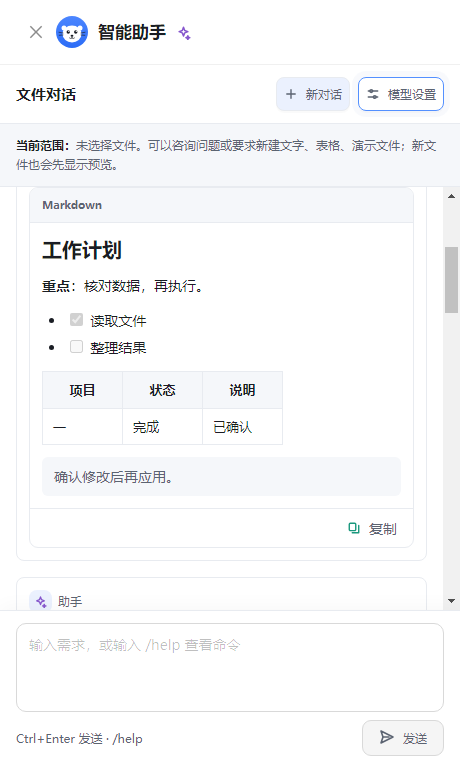
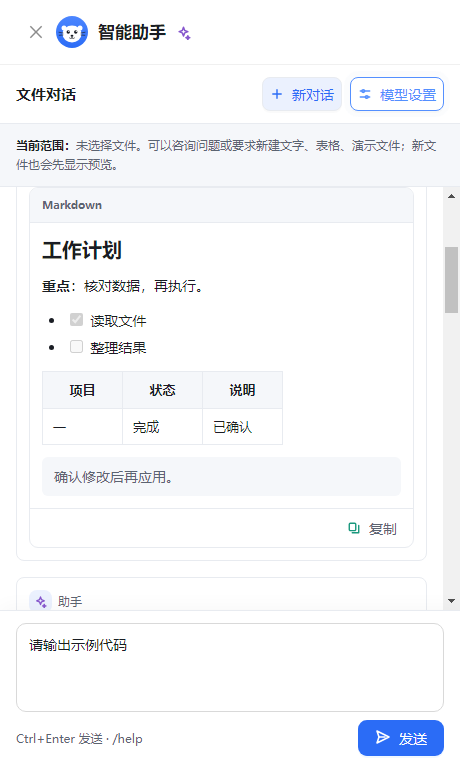
Fix assistant button contrast and verify final presentation

diff --git a/renderer/src/assistant/assistant.css b/renderer/src/assistant/assistant.css
@@ -24,7 +24,7 @@
 .assistant-drawer__work { flex: 1 1 auto; min-height: 0; overflow-y: auto; display: flex; flex-direction: column; }
 .assistant-drawer__header { display: flex; align-items: center; justify-content: space-between; gap: var(--space-3); padding: var(--space-3) var(--space-4); border-bottom: 1px solid var(--border); }
 .assistant-drawer__header strong { font-size: 15px; font-weight: 600; }
-.assistant-drawer__header span { color: var(--text-2); font-size: 12px; }
+.assistant-drawer__header > span { color: var(--text-2); font-size: 12px; }
 .assistant-drawer__header-actions { display: flex; align-items: center; gap: var(--space-2); flex-wrap: wrap; }
 .assistant-context { padding: var(--space-2) var(--space-3); border: 1px solid var(--border); border-radius: var(--radius-control); font-size: 12px; line-height: 1.55; color: var(--text-2); background: var(--bg-app); }
 .assistant-context summary { cursor: pointer; overflow-wrap: anywhere; }
@@ -90,7 +90,7 @@
 .assistant-drawer__composer { display: grid; gap: var(--space-2); padding: var(--space-3) var(--space-4); border-top: 1px solid var(--border); }
 .assistant-drawer__composer .ant-input { resize: none; }
 .assistant-drawer__composer-actions { display: flex; align-items: center; justify-content: space-between; gap: var(--space-2); }
-.assistant-drawer__composer-actions span { color: var(--text-2); font-size: 12px; }
+.assistant-drawer__composer-actions > span { color: var(--text-2); font-size: 12px; }
 .assistant-drawer__background-task { display: flex; align-items: center; justify-content: space-between; gap: var(--space-2); padding: var(--space-2) var(--space-4); font-size: 12px; color: var(--text-2); border-bottom: 1px solid var(--border); }
 .assistant-message__body { white-space: pre-wrap; overflow-wrap: anywhere; }
 .assistant-output--streaming > .assistant-result > .assistant-result__heading::after { content: '接收中'; color: var(--brand); font-weight: 400; font-size: 11px; margin-left: auto; animation: assistant-cursor 1.6s linear infinite; }
@@ -139,6 +139,7 @@
 .assistant-message__avatar { display: inline-flex; align-items: center; justify-content: center; width: 23px; height: 23px; border-radius: 8px; color: #7c3aed; background: var(--brand-soft); }
 .assistant-drawer__header .ant-btn { min-height: 34px; border-radius: 8px; display: inline-flex; align-items: center; justify-content: center; }
 .assistant-new-chat { color: var(--brand); border-color: var(--border); background: var(--brand-soft); }
+:root[data-theme='dark'] .assistant-new-chat:not(:disabled) { color: #a9ceff; }
 .assistant-settings-toggle { color: var(--text-2); }
 .assistant-settings-toggle[aria-expanded='true'] { color: var(--brand); background: var(--brand-soft); }
 .assistant-settings__task-mode { padding: 12px; border: 1px solid var(--border); border-radius: 8px; background: var(--bg-app); display: grid; gap: 8px; }

diff --git a/docs/v1.9.8-修复与验收.md b/docs/v1.9.8-修复与验收.md
@@ -8,7 +8,7 @@
 4. 使用 Markdown 解析器识别内容，覆盖仅含斜体、引用链接、缩进代码等短回复；明确标为 TXT 的围栏保持原样，明确标为 MD 的围栏按 Markdown 排版。
 5. 默认思考强度、思考模式与上下文说明归入模型设置；“仅生成计划”移入同一设置面板。已发送或排队的任务沿用提交时的设置。
 6. 移除聊天列表的高度上限，使聊天区延伸到消息输入框上方；模型设置有独立滚动区域，收起后恢复对话。长代码和宽表格在面板内部滚动，输入框保持可用。
-7. 增加海豹头像、消息标识，调整新对话、设置切换、发送和复制按钮的颜色、圆角及图标；保留浅色、深色和减少动画偏好。
+7. 增加海豹头像、消息标识，调整新对话、设置切换、发送和复制按钮的颜色、圆角及图标；修复通用说明样式覆盖按钮文字颜色的问题，发送按钮启用时显示明亮文字；保留浅色、深色和减少动画偏好。
 
 模型返回的代码只作为内容展示，不执行。Markdown 不运行原始 HTML；外部链接由系统浏览器打开，远程图片不自动加载。文件修改仍先显示候选，用户确认后才应用。
 
